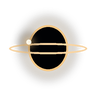
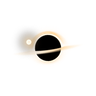
Replace the ringed-planet mark with the D1 event horizon
The icon, fanart, splash and busy frames now show a thin lensed disk
crossing a pure black shadow, with a lensed arc over the top and a
photon ring, rendered by the skin's own generators.

No-Release: first release 2.0.0 is not yet published

diff --git a/tools/build_branding.py b/tools/build_branding.py
@@ -1,63 +1,17 @@
 #!/usr/bin/env python3
-"""Render approved event-horizon SVG drafts with system librsvg and Cairo.
-
-Pillow supplies the rounded icon mask and the Manrope Light wordmark.
-No network access occurs during a build.
-"""
+"""Render the approved D1 brand with Pillow and the system SVG engine."""
 import ctypes as C
 from ctypes.util import find_library
+from functools import lru_cache
 import io
+import math
 from pathlib import Path
 import random
 import tempfile
 
-from PIL import Image, ImageDraw, ImageFont
+from PIL import Image, ImageDraw, ImageFilter, ImageFont
 
 ROOT = Path(__file__).resolve().parents[1]
-
-def stars(n, w, h, seed, maxr=1.6, avoid=None):
-    rnd = random.Random(seed); out = []
-    for _ in range(n):
-        x, y = rnd.uniform(0, w), rnd.uniform(0, h)
-        if avoid and (x - avoid[0]) ** 2 + (y - avoid[1]) ** 2 < avoid[2] ** 2: continue
-        r = rnd.choice([.6, .7, .8, 1, 1.2, maxr]); o = rnd.uniform(.25, .9)
-        out.append(f'<circle cx="{x:.0f}" cy="{y:.0f}" r="{r}" fill="#f4f7fb" opacity="{o:.2f}"/>')
-    return "".join(out)
-
-DEFS = ('<defs><radialGradient id="glow"><stop offset=".42" stop-color="#f5c27a" stop-opacity="0"/><stop offset=".5" stop-color="#f5c27a" stop-opacity=".55"/>'
-        '<stop offset=".62" stop-color="#f5c27a" stop-opacity=".12"/><stop offset="1" stop-color="#f5c27a" stop-opacity="0"/></radialGradient>'
-        '<linearGradient id="disk" x1="0" x2="1"><stop offset="0" stop-color="#fff6e4"/><stop offset=".3" stop-color="#f5c27a"/>'
-        '<stop offset=".7" stop-color="#b8743a"/><stop offset="1" stop-color="#f5c27a" stop-opacity=".5"/></linearGradient>'
-        '<filter id="bl" x="-1" y="-1" width="3" height="3"><feGaussianBlur stdDeviation="6"/></filter>'
-        '<filter id="bl2" x="-1" y="-1" width="3" height="3"><feGaussianBlur stdDeviation="2"/></filter>'
-        '<clipPath id="front"><rect x="-2000" y="0" width="4000" height="2000"/></clipPath>'
-        '<clipPath id="back"><rect x="-2000" y="-2000" width="4000" height="2000"/></clipPath>'
-        '<linearGradient id="arc" x1="0" x2="1"><stop offset="0" stop-color="#fff6e4"/><stop offset=".45" stop-color="#f5c27a"/><stop offset="1" stop-color="#a8632e"/></linearGradient>'
-        '<linearGradient id="fadeg" x1="0" x2="1"><stop offset="0" stop-color="#fff" stop-opacity="0"/><stop offset=".25" stop-color="#fff"/><stop offset=".75" stop-color="#fff"/><stop offset="1" stop-color="#fff" stop-opacity="0"/></linearGradient>'
-        '<mask id="dfade" maskContentUnits="objectBoundingBox"><rect width="1" height="1" fill="url(#fadeg)"/></mask></defs>')
-
-def eh(cx, cy, r, tilt=-8):
-    """Event horizon: lensed glow, the far side of the disk bent over the top and under the bottom of the core, black core, photon ring, near side of the disk in front."""
-    disk = (f'<ellipse rx="{r*2.6}" ry="{r*.3}" fill="none" stroke="#f5c27a" stroke-width="{r*.36}" opacity=".25" filter="url(#bl)" mask="url(#dfade)"/>'
-            f'<ellipse rx="{r*2.6}" ry="{r*.3}" fill="none" stroke="url(#disk)" stroke-width="{r*.14}" filter="url(#bl2)" mask="url(#dfade)"/>'
-            f'<ellipse rx="{r*2.6}" ry="{r*.3}" fill="none" stroke="#fff6e4" stroke-width="{r*.03}" opacity=".8" mask="url(#dfade)"/>')
-    top = f'M{-r*1.42} 0 A{r*1.42} {r*1.42} 0 0 1 {r*1.42} 0'
-    bot = f'M{-r*1.16} 0 A{r*1.16} {r*1.16} 0 0 0 {r*1.16} 0'
-    return (f'<g transform="translate({cx} {cy}) rotate({tilt})">'
-            f'<circle r="{r*2.4}" fill="url(#glow)"/>'
-            f'<g clip-path="url(#back)">{disk}</g>'
-            f'<path d="{top}" fill="none" stroke="#f5c27a" stroke-width="{r*.5}" opacity=".28" filter="url(#bl)"/>'
-            f'<path d="{top}" fill="none" stroke="url(#arc)" stroke-width="{r*.2}" opacity=".85" filter="url(#bl2)"/>'
-            f'<path d="{top}" fill="none" stroke="#fff6e4" stroke-width="{r*.035}" opacity=".85"/>'
-            f'<path d="{bot}" fill="none" stroke="#f5c27a" stroke-width="{r*.09}" opacity=".6" filter="url(#bl2)"/>'
-            f'<circle r="{r*1.06}" fill="none" stroke="#fff6e4" stroke-width="{r*.035}" opacity=".95" filter="url(#bl2)"/>'
-            f'<circle r="{r}" fill="#010204"/>'
-            f'<g clip-path="url(#front)">{disk}</g>'
-            f'<circle cx="{-r*2.1}" cy="{r*.06}" r="{r*.1}" fill="#fff6e4" filter="url(#bl2)" opacity=".85"/></g>')
-
-def svg(w, h, body, bg="#03050a"):
-    return f'<svg viewBox="0 0 {w} {h}" width="{w}" height="{h}" xmlns="http://www.w3.org/2000/svg"><rect width="{w}" height="{h}" fill="{bg}"/>{DEFS}{body}</svg>'
-
 
 class Rectangle(C.Structure):
     _fields_ = [('x', C.c_double), ('y', C.c_double),
@@ -104,30 +58,144 @@ def rasterize(source, width, height):
         objects.g_object_unref(handle)
 
 
+def smoothstep(low, high, value):
+    fraction = max(0, min(1, (value-low)/(high-low)))
+    return fraction*fraction*(3-2*fraction)
+
+
+@lru_cache(maxsize=8)
+def horizon(size, radius, tilt=-8):
+    """D1: an eight-degree near disk, two lens images and a black shadow.
+
+    Sample each radial filament across a narrow Gaussian band. Pillow rotates
+    the oversampled field and supplies the same quantized glow as the draft.
+    """
+    width, height = size
+    count = width*height
+    near, upper, lower = ([0.0]*count for _ in range(3))
+    elevation = math.sin(math.radians(8))
+    line_width, lens_width = .018, .030
+    step = (3.03-1.24)/127
+    for column in range(width):
+        x = (column-(width-1)/2)/radius
+        for ring in range(128):
+            r = 1.24+ring*step
+            weight = smoothstep(1.24, 1.38, r)*(1-smoothstep(2.36, 3.03, r))
+            weight *= math.exp(-(r-1.24)/.63)*(1+.095*math.sin(45*r)+.035*math.sin(93*r))
+            if not weight or abs(x) >= r:
+                continue
+            upper_r = 1.16+.32*(r-1.24)
+            lower_r = 1.075+.29*(r-1.24)
+            join_upper = math.sqrt(r*r-upper_r*upper_r)*elevation
+            join_lower = math.sqrt(r*r-lower_r*lower_r)*elevation
+            curves = [(near, math.sqrt(r*r-x*x)*elevation, line_width,
+                       smoothstep(0, .07, r-abs(x)))]
+            if abs(x) < upper_r:
+                curves.append((upper, join_upper-(1.13+.10*(r-1.24)+join_upper)*math.sqrt(1-(x/upper_r)**2),
+                               lens_width, smoothstep(0, .045, upper_r-abs(x))))
+            if abs(x) < lower_r:
+                curves.append((lower, join_lower+(1.045+.15*(r-1.24)-join_lower)*math.sqrt(1-(x/lower_r)**2),
+                               lens_width, smoothstep(0, .045, lower_r-abs(x))))
+            for field, centre, sigma, valid in curves:
+                centre = centre*radius+(height-1)/2
+                spread = sigma*radius
+                amplitude = weight*valid*step/.055
+                for row in range(max(0, math.floor(centre-6*spread)), min(height, math.ceil(centre+6*spread)+1)):
+                    field[row*width+column] += amplitude*math.exp(-.5*((row-centre)/spread)**2)
+    back_raw, near_raw = bytearray(count), bytearray(count)
+    photons = [0.0]*count
+    for row in range(height):
+        y = (row-(height-1)/2)/radius
+        for column in range(width):
+            index = row*width+column
+            x = (column-(width-1)/2)/radius
+            approach = 1/(1+math.exp(max(-30, min(30, x*2))))
+            beaming = .40+1.40*approach
+            near[index] *= beaming*.88
+            photon = math.exp(-.5*((math.hypot(x, y)-1.015)/.012)**2)*(.75+.35*approach)
+            photons[index] = photon
+            back = upper[index]*beaming*.55+lower[index]*beaming*.105+photon*1.65
+            upper[index] = 1-math.exp(-back)
+            lower[index] = 1-math.exp(-near[index])
+            back_raw[index] = int(upper[index]*255)
+            near_raw[index] = int(lower[index]*255)
+    def blur(data, extent):
+        return Image.frombytes('L', size, bytes(data)).filter(ImageFilter.GaussianBlur(extent)).tobytes()
+    back_soft, back_wide = blur(back_raw, radius*.10), blur(back_raw, radius*.32)
+    near_soft, near_wide = blur(near_raw, radius*.055), blur(near_raw, radius*.21)
+    pixels = bytearray(count*4)
+    gold, frost = (245/255, 194/255, 122/255), (244/255, 247/255, 251/255)
+    for row in range(height):
+        y = (row-(height-1)/2)/radius
+        for column in range(width):
+            index = row*width+column
+            x = (column-(width-1)/2)/radius
+            distance = math.hypot(x, y)
+            outside = smoothstep(.995, 1.005, distance)
+            back = (upper[index]+back_soft[index]/255*.42+back_wide[index]/255*.26)*outside
+            glow = near_soft[index]/255*.26+near_wide[index]/255*.15
+            if distance < .995:
+                glow *= smoothstep(.002, .035, near[index])
+            energy = min(1, back+lower[index]+glow)
+            approach = 1/(1+math.exp(max(-30, min(30, x*2))))
+            white = min(.95, .10+.55*approach+.19*lower[index]+.15*photons[index])
+            rgb = [energy*(a*(1-white)+b*white) for a,b in zip(gold, frost)]
+            alpha = max(max(rgb), 1-outside)
+            offset = index*4
+            for channel, value in enumerate(rgb):
+                pixels[offset+channel] = round(max(0, min(1, value/max(alpha, 1e-6)))*255)
+            pixels[offset+3] = round(max(0, min(1, alpha))*255)
+    # Pillow's positive angle is counter-clockwise; the draft uses screen axes.
+    return Image.frombytes('RGBA', size, bytes(pixels)).rotate(-tilt, Image.Resampling.BICUBIC)
+
+
+def starfield(size, count, seed, avoid=None, icon=False, transparent=False):
+    """Use the approved seeded starfield and deep-blue radial backdrop."""
+    width, height = size
+    cx, cy = (.5, .45) if icon else (.70, .4)
+    blue, void = ((20,32,58) if icon else (11,20,36)), (3,5,10)
+    image = Image.new('RGBA', size)
+    if not transparent:
+        pixels = bytearray(width*height*3)
+        for y in range(height):
+            for x in range(width):
+                radial = math.exp(-(((x/width-cx)/.52)**2+((y/height-cy)/.62)**2)*1.5)
+                offset = (y*width+x)*3
+                pixels[offset:offset+3] = bytes(int(a+(b-a)*radial) for a,b in zip(void, blue))
+        image = Image.frombytes('RGB', size, bytes(pixels)).convert('RGBA')
+    layer = Image.new('RGBA', size)
+    draw = ImageDraw.Draw(layer)
+    rng = random.Random(seed)
+    for _ in range(count):
+        x,y = rng.uniform(0,width),rng.uniform(0,height)
+        if avoid and (x-avoid[0])**2+(y-avoid[1])**2 < avoid[2]**2:
+            continue
+        r = rng.choice((.45,.6,.8,1.0,1.2))
+        draw.ellipse((x-r,y-r,x+r,y+r),fill=(244,247,251,round(rng.uniform(.18,.7)*255)))
+    image.alpha_composite(layer)
+    return image
+
+
+def splash_stars():
+    return starfield((1920,1080),120,11,(960,480,360),transparent=True)
+
+
 def build():
-    icon_source = svg(512, 512, stars(40, 512, 512, 3, 1.2, (256, 256, 170))
-                      + eh(256, 256, 78), 'url(#ibg)').replace(
-        '<defs>', '<defs><radialGradient id="ibg" cx=".5" cy=".45" r=".7">'
-        '<stop offset="0" stop-color="#14203a"/><stop offset="1" stop-color="#03050a"/>'
-        '</radialGradient>', 1)
-    icon = rasterize(icon_source, 1024, 1024)
-    mask = Image.new('L', icon.size)
-    ImageDraw.Draw(mask).rounded_rectangle((0, 0, 1023, 1023), radius=225, fill=255)
+    icon = starfield((1024,1024),40,3,(512,512,340),icon=True)
+    icon.alpha_composite(horizon((1024,1024),156))
+    mask = Image.new('L',icon.size)
+    ImageDraw.Draw(mask).rounded_rectangle((0,0,1023,1023),radius=225,fill=255)
     icon.putalpha(mask)
-    icon.resize((512, 512), Image.Resampling.LANCZOS).save(ROOT / 'icon.png')
-    fan_source = svg(1920, 1080, stars(260, 1920, 1080, 7, 1.8, (1300, 520, 420))
-                     + eh(1300, 520, 190), 'url(#fbg)').replace(
-        '<defs>', '<defs><radialGradient id="fbg" cx=".7" cy=".4" r=".8">'
-        '<stop offset="0" stop-color="#0b1424"/><stop offset="1" stop-color="#03050a"/>'
-        '</radialGradient>', 1)
-    fanart = rasterize(fan_source, 1920, 1080)
+    icon.resize((512,512),Image.Resampling.LANCZOS).save(ROOT/'icon.png',compress_level=9)
+    fanart = starfield((1920,1080),260,7,(1300,520,420))
+    fanart.alpha_composite(horizon((1180,940),190),(710,50))
     draw = ImageDraw.Draw(fanart)
-    font = ImageFont.truetype(str(ROOT / 'fonts/manrope-light.ttf'), 76)
+    font = ImageFont.truetype(str(ROOT/'fonts/manrope-light.ttf'),76)
     x = 196
     for character in 'STARLIGHT':
-        draw.text((x, 470), character, font=font, fill='#f4f7fb', anchor='lt')
-        x += draw.textlength(character, font=font) + 76 * .32
-    fanart.convert('RGB').save(ROOT / 'fanart.jpg', quality=95, subsampling=0)
+        draw.text((x,470),character,font=font,fill='#f4f7fb',anchor='lt')
+        x += draw.textlength(character,font=font)+76*.32
+    fanart.convert('RGB').save(ROOT/'fanart.jpg',quality=95,subsampling=0)
     print('Rendered icon.png (512x512) and fanart.jpg (1920x1080)')
 
 

diff --git a/tools/build_textures.py b/tools/build_textures.py
@@ -6,7 +6,7 @@ from pathlib import Path
 import xml.etree.ElementTree as ET
 
 from PIL import Image, ImageChops, ImageDraw, ImageFilter
-from build_branding import rasterize
+from build_branding import horizon, rasterize
 from textures_library import build_library_textures
 
 ROOT = Path(__file__).resolve().parents[1]
@@ -104,15 +104,7 @@ def point_sprite(twinkle=False):
 
 def busy_frame(frame, orbit=True):
     size = 96
-    canvas = Image.new('RGBA', (size * SCALE, size * SCALE))
-    halo = Image.new('RGBA', canvas.size)
-    draw = ImageDraw.Draw(halo)
-    draw.ellipse((22 * SCALE, 19 * SCALE, 74 * SCALE, 77 * SCALE), outline=rgba(GOLD, .6), width=5 * SCALE)
-    canvas = Image.alpha_composite(canvas, halo.filter(ImageFilter.GaussianBlur(5 * SCALE)))
-    draw = ImageDraw.Draw(canvas)
-    draw.ellipse((28 * SCALE, 25 * SCALE, 68 * SCALE, 71 * SCALE), fill=(1, 2, 4, 255),
-                 outline=rgba(GOLD, .9), width=2 * SCALE)
-    draw.ellipse((9 * SCALE, 43 * SCALE, 87 * SCALE, 54 * SCALE), outline=rgba(GOLD, .7), width=2 * SCALE)
+    canvas = horizon((size*SCALE,size*SCALE), 13*SCALE).copy()
     if orbit:
         angle = 2 * math.pi * frame / 24
         x, y = 48 + 20 * math.cos(angle), 48 + 23 * math.sin(angle)

diff --git a/tools/textures_settings.py b/tools/textures_settings.py
@@ -3,7 +3,7 @@ from pathlib import Path
 
 from PIL import Image, ImageDraw, ImageFont
 
-from build_branding import eh, rasterize, stars, svg
+from build_branding import horizon, rasterize, splash_stars
 
 
 def build(output):
@@ -51,8 +51,8 @@ def build(output):
         canvas=Image.new('RGBA',(64,64))
         ImageDraw.Draw(canvas).rounded_rectangle((0,0,63,63),radius=16,fill=(244,247,251,alpha),outline=(255,255,255,18),width=1)
         canvas.save(target / (name+'.png'))
-    rasterize(svg(960,720,eh(480,360,120), 'none'),960,720).save(target / 'splash_horizon.png')
-    rasterize(svg(1920,1080,stars(120,1920,1080,11,1.4,(960,480,360)), 'none'),1920,1080).save(target / 'splash_stars.png')
+    horizon((960,720),120).save(target / 'splash_horizon.png')
+    splash_stars().save(target / 'splash_stars.png')
     canvas=Image.new('RGBA',(680,80))
     draw=ImageDraw.Draw(canvas)
     font=ImageFont.truetype(str(Path(__file__).resolve().parents[1]/'fonts/manrope-light.ttf'),40)
